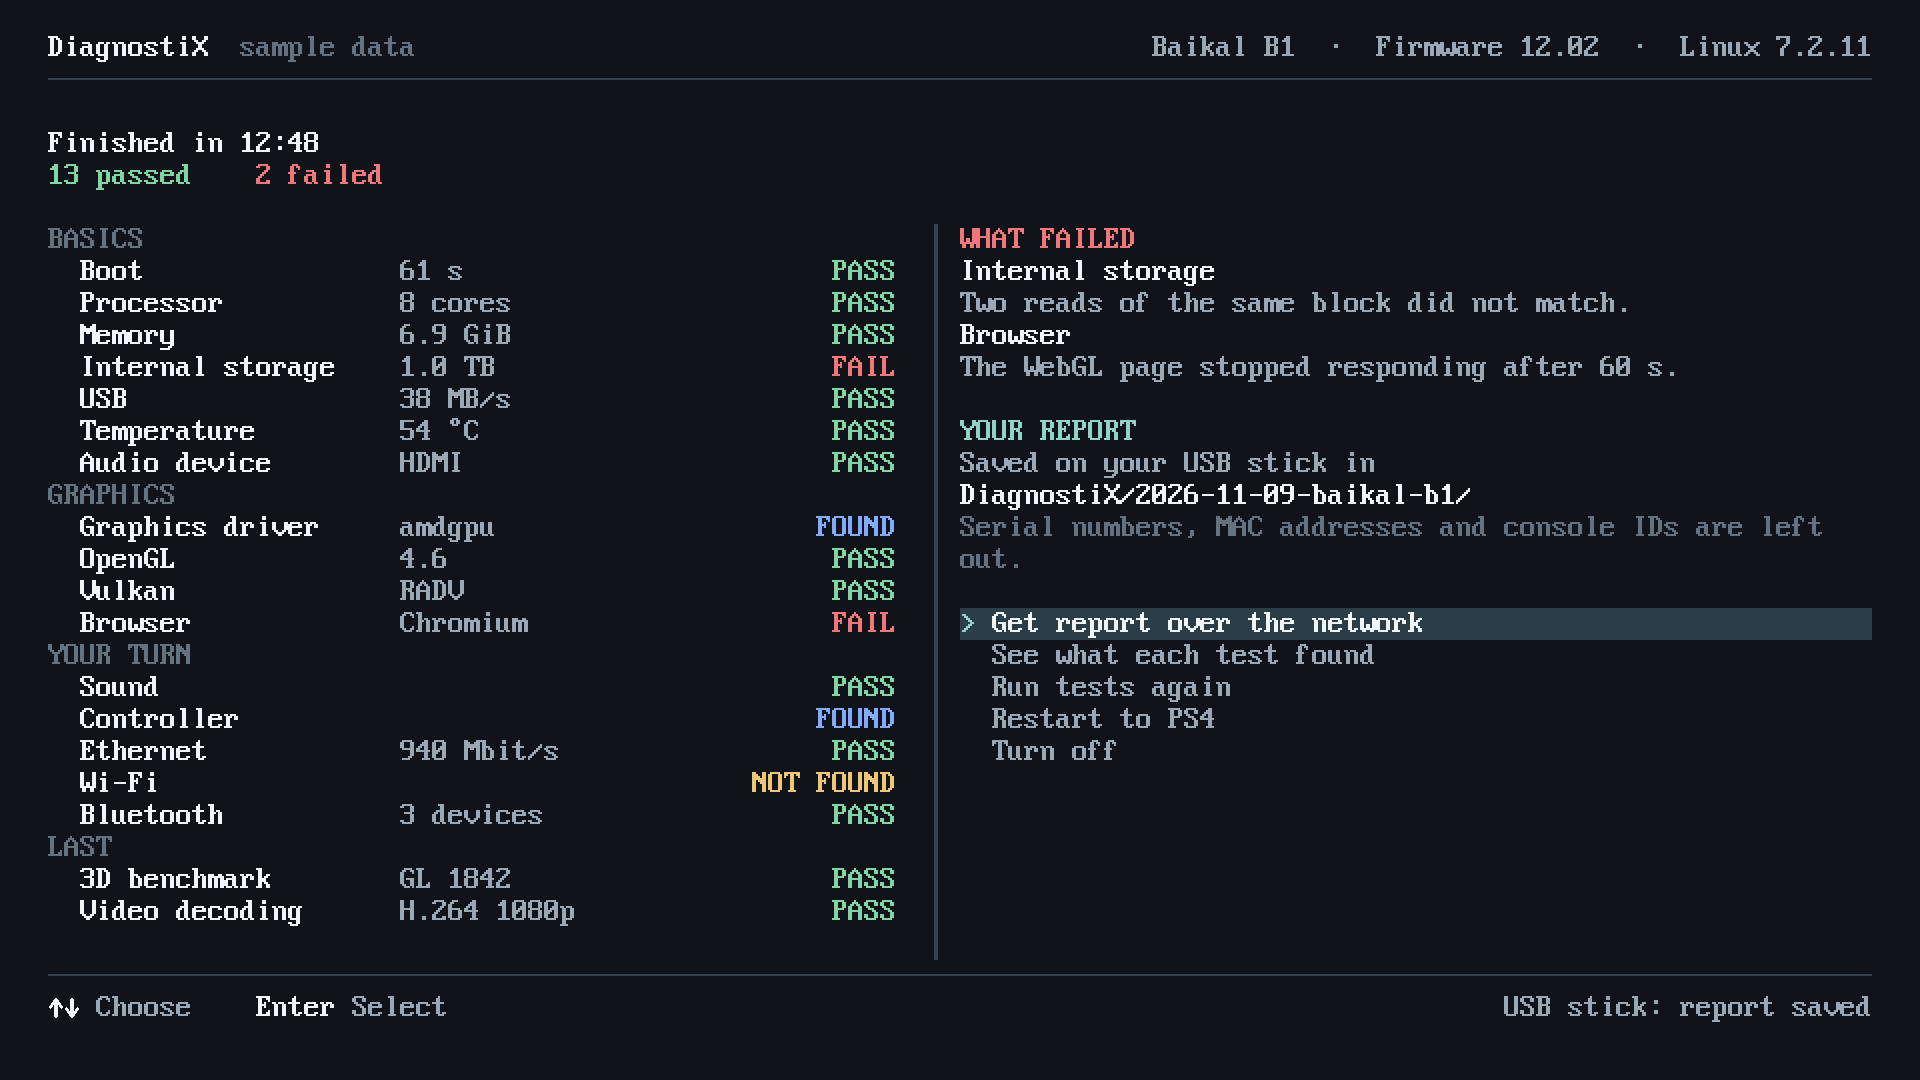
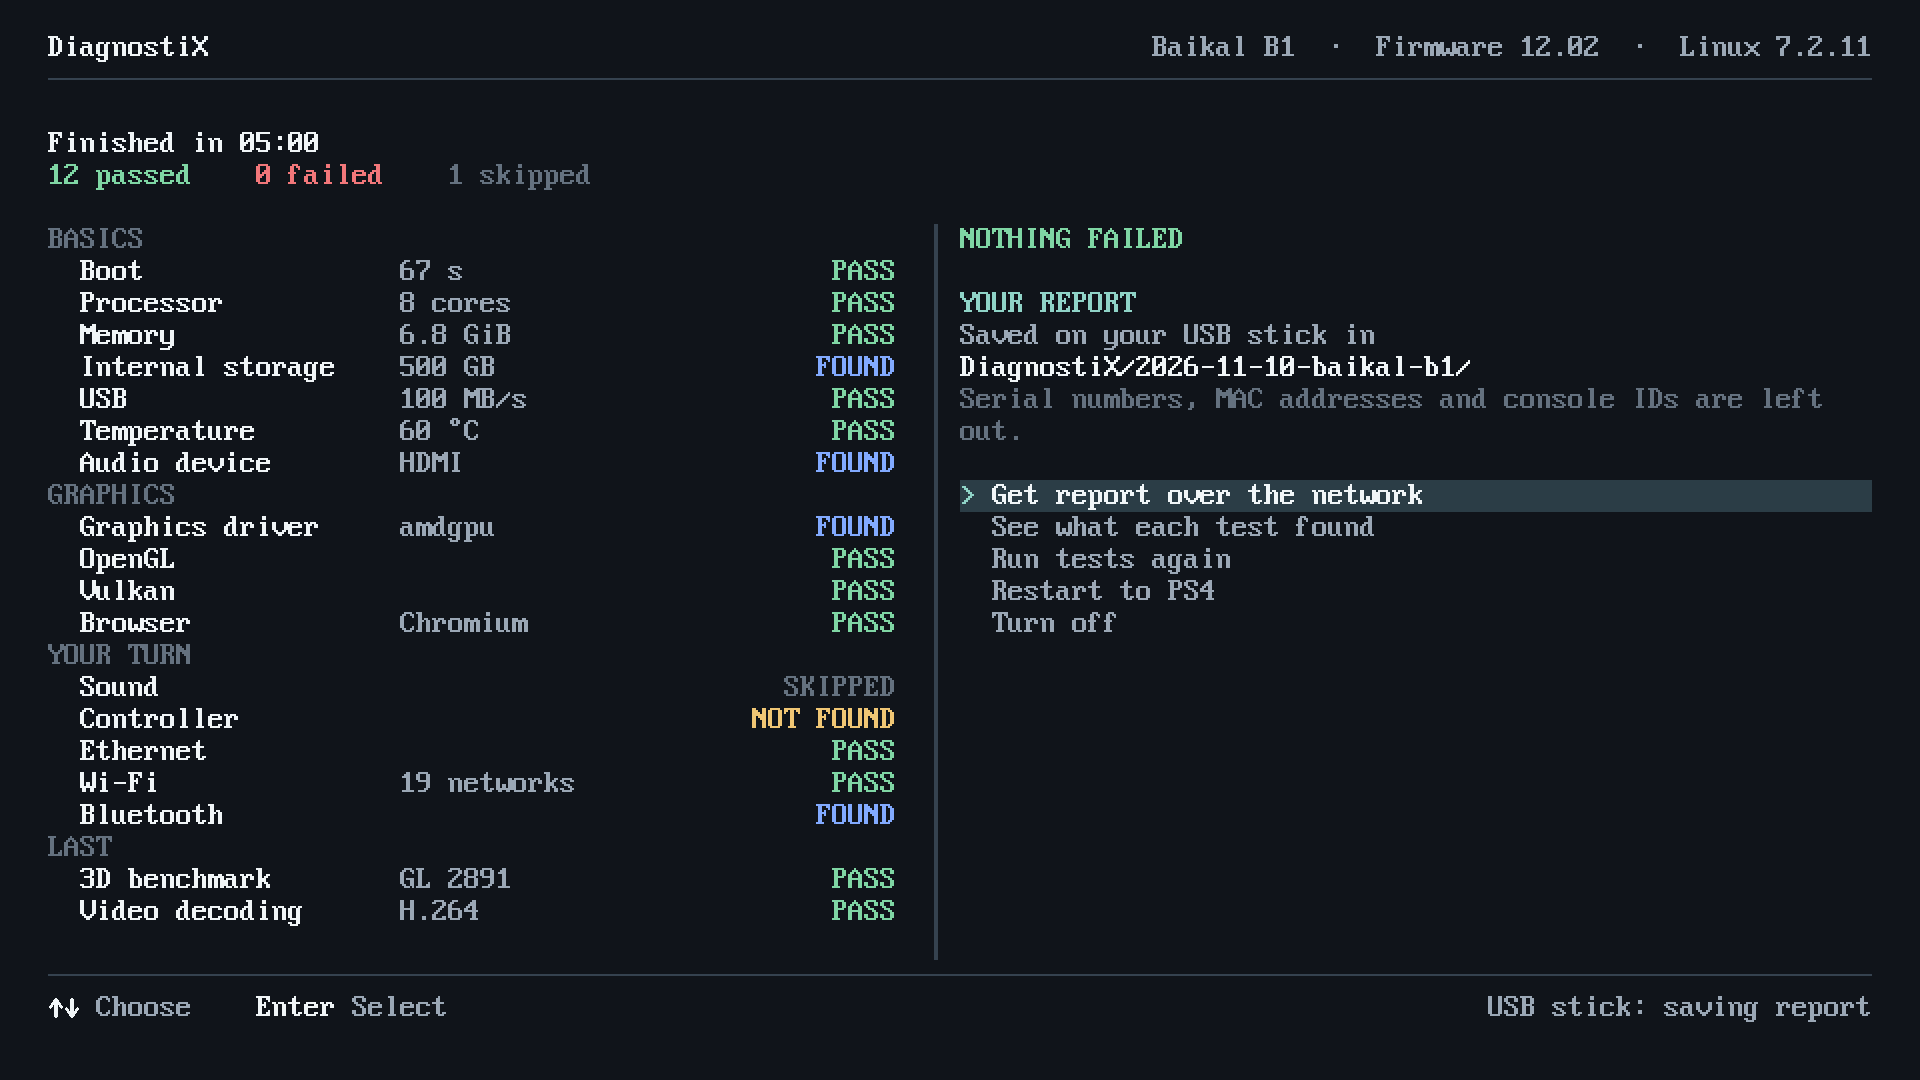
docs: link the DiagnostiX app from the README
The README now points to the released app and the kernel, shows the
results of a real run on the Baikal B1, and records the ordered Turn off
and restart on the beta2 kernel.

diff --git a/README.md b/README.md
@@ -2,8 +2,8 @@
   <h1>Linux psX</h1>
   <p><strong>Linux kernels for PlayStation 4 and PlayStation 5, with PS4 graphics drivers and diagnostics.</strong></p>
   <p>
-    <a href="https://github.com/meerzulee/linux-psx/releases/tag/v7.2.11-psx-ps4-baikal-beta2">PS4 Baikal beta2</a>
-    &middot; <a href="#diagnostix">Diagnostix</a>
+    <a href="https://github.com/meerzulee/linux-psx/releases/tag/v7.2.11-psx-ps4-baikal-beta2">PS4 kernel 7.2.11</a>
+    &middot; <a href="https://github.com/meerzulee/linux-psx/releases/tag/diagnostix-0.16-beta1">DiagnostiX app</a>
     &middot; <a href="docs/BUILDING.md">Build</a>
     &middot; <a href="https://github.com/meerzulee/linux-psx/wiki">Wiki</a>
     &middot; <a href="https://github.com/meerzulee/linux-psx/issues">Issues</a>
@@ -34,10 +34,11 @@ individual recorded builds; fresh builds and other consoles need their own tests
 | HDMI audio | 🧪 44.1 kHz command; audible check deferred; 48 kHz open | ⏳ | ⏳ |
 | Temperature / fan | 🧪 Historical temperature readings; fan unqualified | ⏳ | ⏳ |
 | Blu-ray / optical | 🧪 Device detected | ⏳ | ⏳ |
-| Power | ✅ Shutdown / normal restart with UVD; ~1.1 s to ICC on dev5 | ⏳ | ⏳ |
+| Power | ✅ Turn off / restart to Orbis in about 3 s, after full runs with UVD | ⏳ | ⏳ |
 
-Power results: one corrected-image restart and one shutdown on this Slim;
-the new immediate Power path still needs its own hardware check.
+Power: an ordered Turn off and an ordered restart to Orbis each completed on the
+beta2 kernel after a full DiagnostiX run
+([EXP-20261110-015](diagnostics/SESSIONS.md#exp-20261110-015--the-launcher-finds-the-usb-stick-ordered-turn-off-and-restart)).
 Ethernet: 20 SSH logins and verified 4 MiB transfers each way passed after
 reconnecting the laptop's Wi-Fi; the precise LAN fault remains unresolved.
 
@@ -63,33 +64,35 @@ Example manufacturer peaks, **read / write in MB/s**; these are not PS4 benchmar
 
 [Specifications, actual results and benchmark plan →](docs/PS4-STORAGE-COMPARISON.md)
 
-## Diagnostix
+## DiagnostiX
 
-Diagnostix finds out what works on a PS4. The app starts Linux from the console's
+DiagnostiX tests the kernel on your PS4. The app starts Linux from the console's
 memory, runs every test by itself and saves one report you can share. Serial
 numbers, MAC addresses and console IDs are left out of the report, and nothing is
 uploaded automatically.
 
+**[Download the app](https://github.com/meerzulee/linux-psx/releases/tag/diagnostix-0.16-beta1)**
+and install it on a PS4 running GoldHEN. Plug in a USB stick and choose
+**Automatic test**; a run takes about 6 minutes. Linux has been tested on a PS4 Slim
+with Baikal B1 on firmware 12.02. Any other PS4 on 12.02 can choose **Try Linux
+anyway**, and any PS4 can save its console info, which helps us
+[port the kernel to it](manual/09-help-port-your-console.md).
+[How to use it](manual/06-diagnostix.md).
+
 <p align="center">
   <a href="docs/images/diagnostix-app-home.png"><img src="docs/images/diagnostix-app-home.png" width="280" alt="Diagnostix app home screen showing the console's southbridge and firmware"></a>
   <a href="docs/images/diagnostix-app-testing.png"><img src="docs/images/diagnostix-app-testing.png" width="280" alt="Diagnostix running its graphics tests, with sample data"></a>
-  <a href="docs/images/diagnostix-app-finished.png"><img src="docs/images/diagnostix-app-finished.png" width="280" alt="A finished Diagnostix run, with sample data"></a>
+  <a href="docs/images/diagnostix-app-finished.png"><img src="docs/images/diagnostix-app-finished.png" width="280" alt="A finished DiagnostiX run on the project's Baikal B1 console"></a>
 </p>
 
-Home, a test in progress and a finished run, rendered from the real interface on a
-development computer with sample results. [Image notes](docs/images/README.md).
+Home, a test in progress with sample data, and the results of a real run on the
+project's Baikal B1, all drawn by the app's own code on a development computer.
+[Image notes](docs/images/README.md).
 
-**Status:** the app is not a public download yet. One full automatic run has passed on
-version 0.16, on one PS4 Slim with a Baikal B1 southbridge. Sony's firmware is no longer
-in the package, because each console supplies its own when the app starts. The package
-still carries MediaTek Wi-Fi firmware, and its license and source duties are open. [What the app needs before release](docs/DIAGNOSTIX-RELEASE.md#the-app-is-not-released-yet).
+The older USB kit boots from a USB drive with your own loader. It contains no
+firmware and is for people comfortable on a Linux computer.
 
-The download available today is the older USB kit. It contains no firmware and is
-for people comfortable on a Linux computer. It has network and SSH setup, a
-hardware Overview and tabbed tests for CPU/RAM, networking, X11/Wayland,
-OpenGL/Vulkan, Firefox/Chromium and experimental UVD.
-
-[Download the experimental firmware-free kit](https://github.com/meerzulee/linux-psx/releases/tag/diagnostix-alpha7-20261107) ·
+[USB kit](https://github.com/meerzulee/linux-psx/releases/tag/diagnostix-alpha7-20261107) ·
 [Local firmware setup](docs/DIAGNOSTIX-RELEASE.md) ·
 [Image and setup guide](docs/DIAGNOSTICS.md) ·
 [Source](diagnostics/) · [TUI](diagnostics/ps4/tui/) ·

diff --git a/docs/images/README.md b/docs/images/README.md
@@ -5,14 +5,14 @@ kernel or complete test suite has passed.
 
 ## The app, version 0.16
 
-Rendered on a development computer on 2026-11-10 from the interface code in this
-repository. They are not console captures, and every result in them is sample data.
+Rendered on a development computer from the interface code in this repository.
+They are not console captures. Home and Test in progress show sample data.
 
 | Image | How it was made |
 | --- | --- |
 | [Home](diagnostix-app-home.png) | `diagnostics/ps4/fpkg/tests/ui_preview.cpp`, 1920x1080. Noto Sans stands in for the console's system font. |
 | [Test in progress](diagnostix-app-testing.png) | `diagnostix --demo graphics` in a 120x33 terminal, drawn with the console font and palette. |
-| [Finished run](diagnostix-app-finished.png) | `diagnostix --demo finished`, made the same way. |
+| [Finished run](diagnostix-app-finished.png) | The results of the first run in [EXP-20261110-015](../../diagnostics/SESSIONS.md#exp-20261110-015--the-launcher-finds-the-usb-stick-ordered-turn-off-and-restart) on the project's Baikal B1, 2026-11-11, copied from its UART trace and drawn by the app's view code the same way. The run time and the report folder's date are worked out from the trace. |
 
 ## The USB kit
 

diff --git a/manual/06-diagnostix.md b/manual/06-diagnostix.md
@@ -42,7 +42,7 @@ The home screen shows the console's southbridge and firmware, and what this vers
 
 ![A finished run](images/diagnostix-app-finished.webp)
 
-_Sample results, not a real console._
+_A run on the project's PS4 Slim with Baikal B1, 2026-11-11, redrawn on a development computer from that run's results._
 
 A run takes about 6 minutes on the tested console. **Manual test** starts the same Linux and lets you choose the tests.
 
